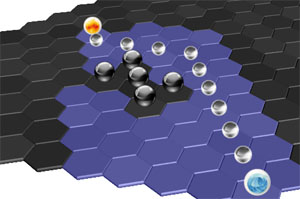
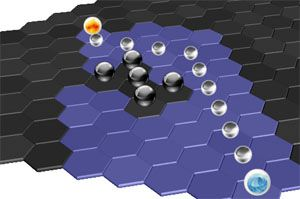
added pathing pic

diff --git a/README.md b/README.md
@@ -10,6 +10,8 @@ I also created a square grid to help me think about how to abstract the grid eno
 
 Please use this to make awesome hex-based web games.
 
+![screenshot](pathfinding.jpg)
+
 ## Features
 
 - Simple API for attaching objects to the grid through `Board.js`
